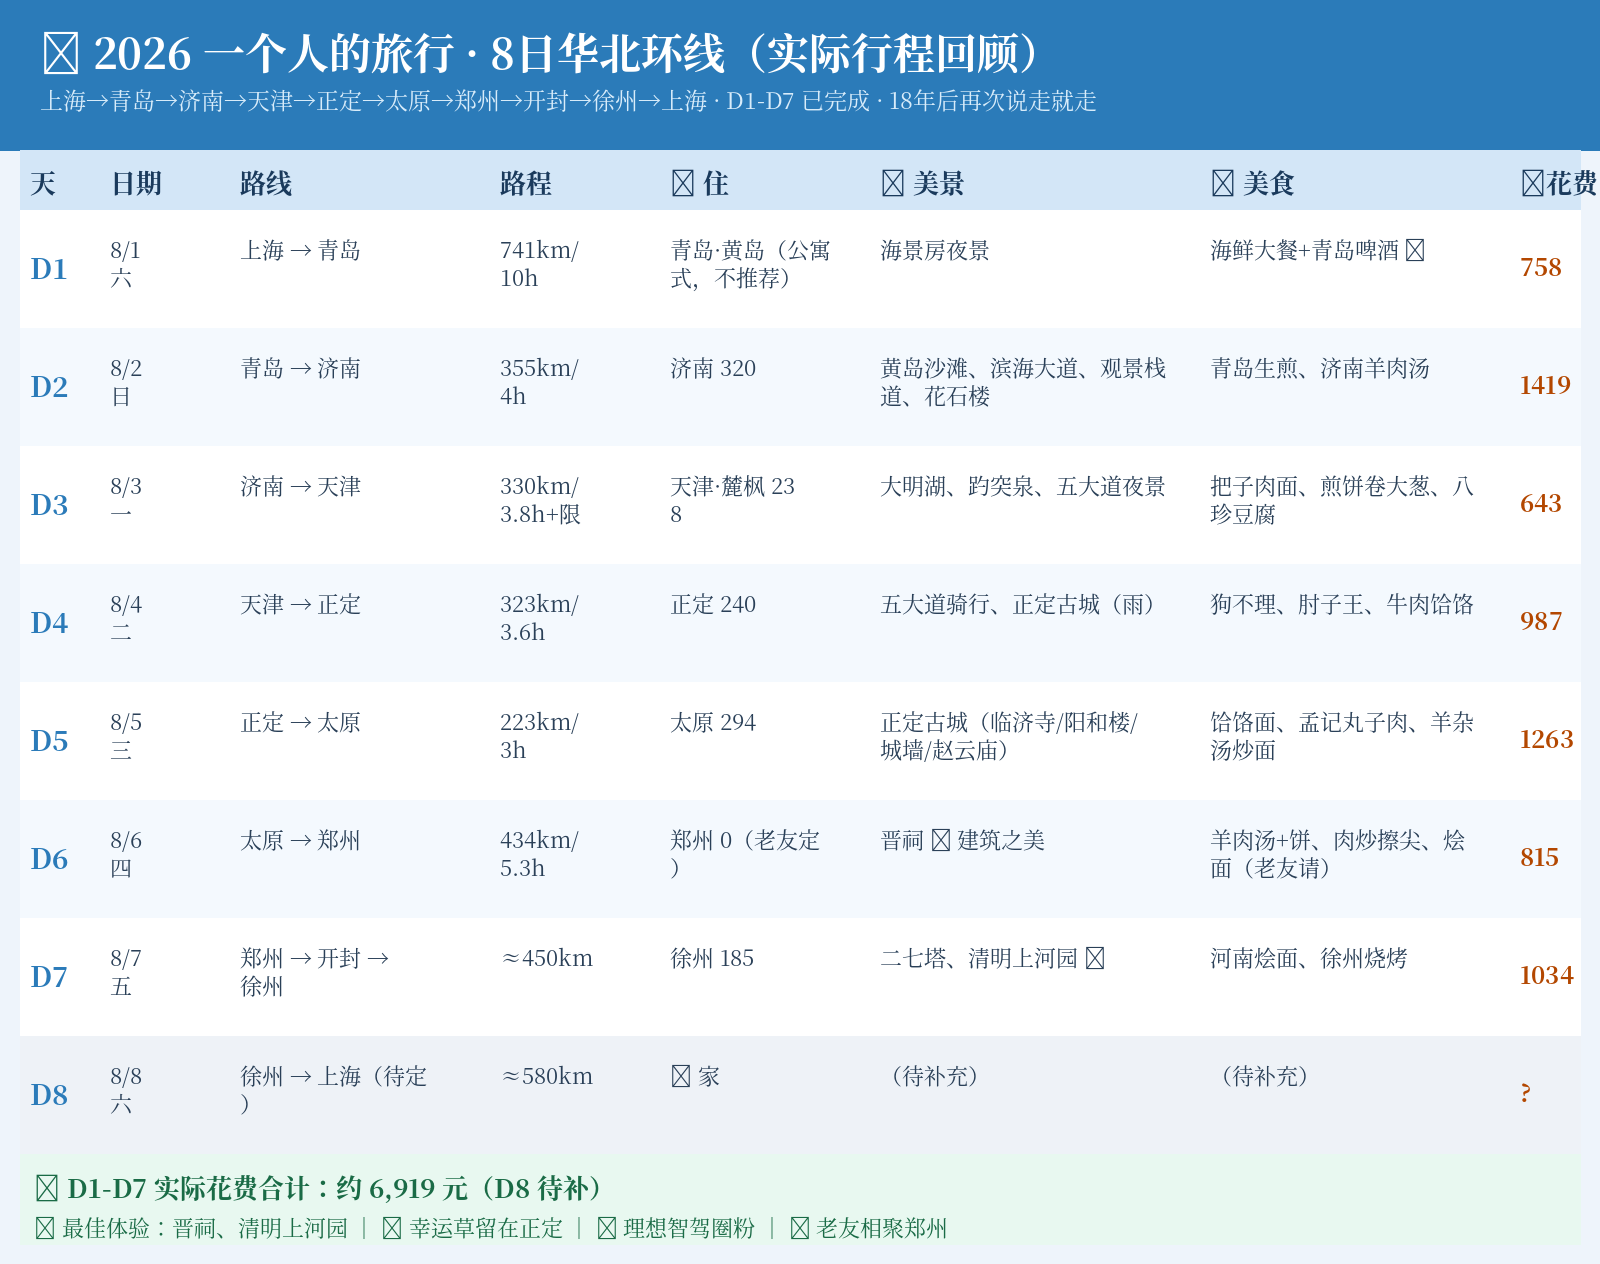
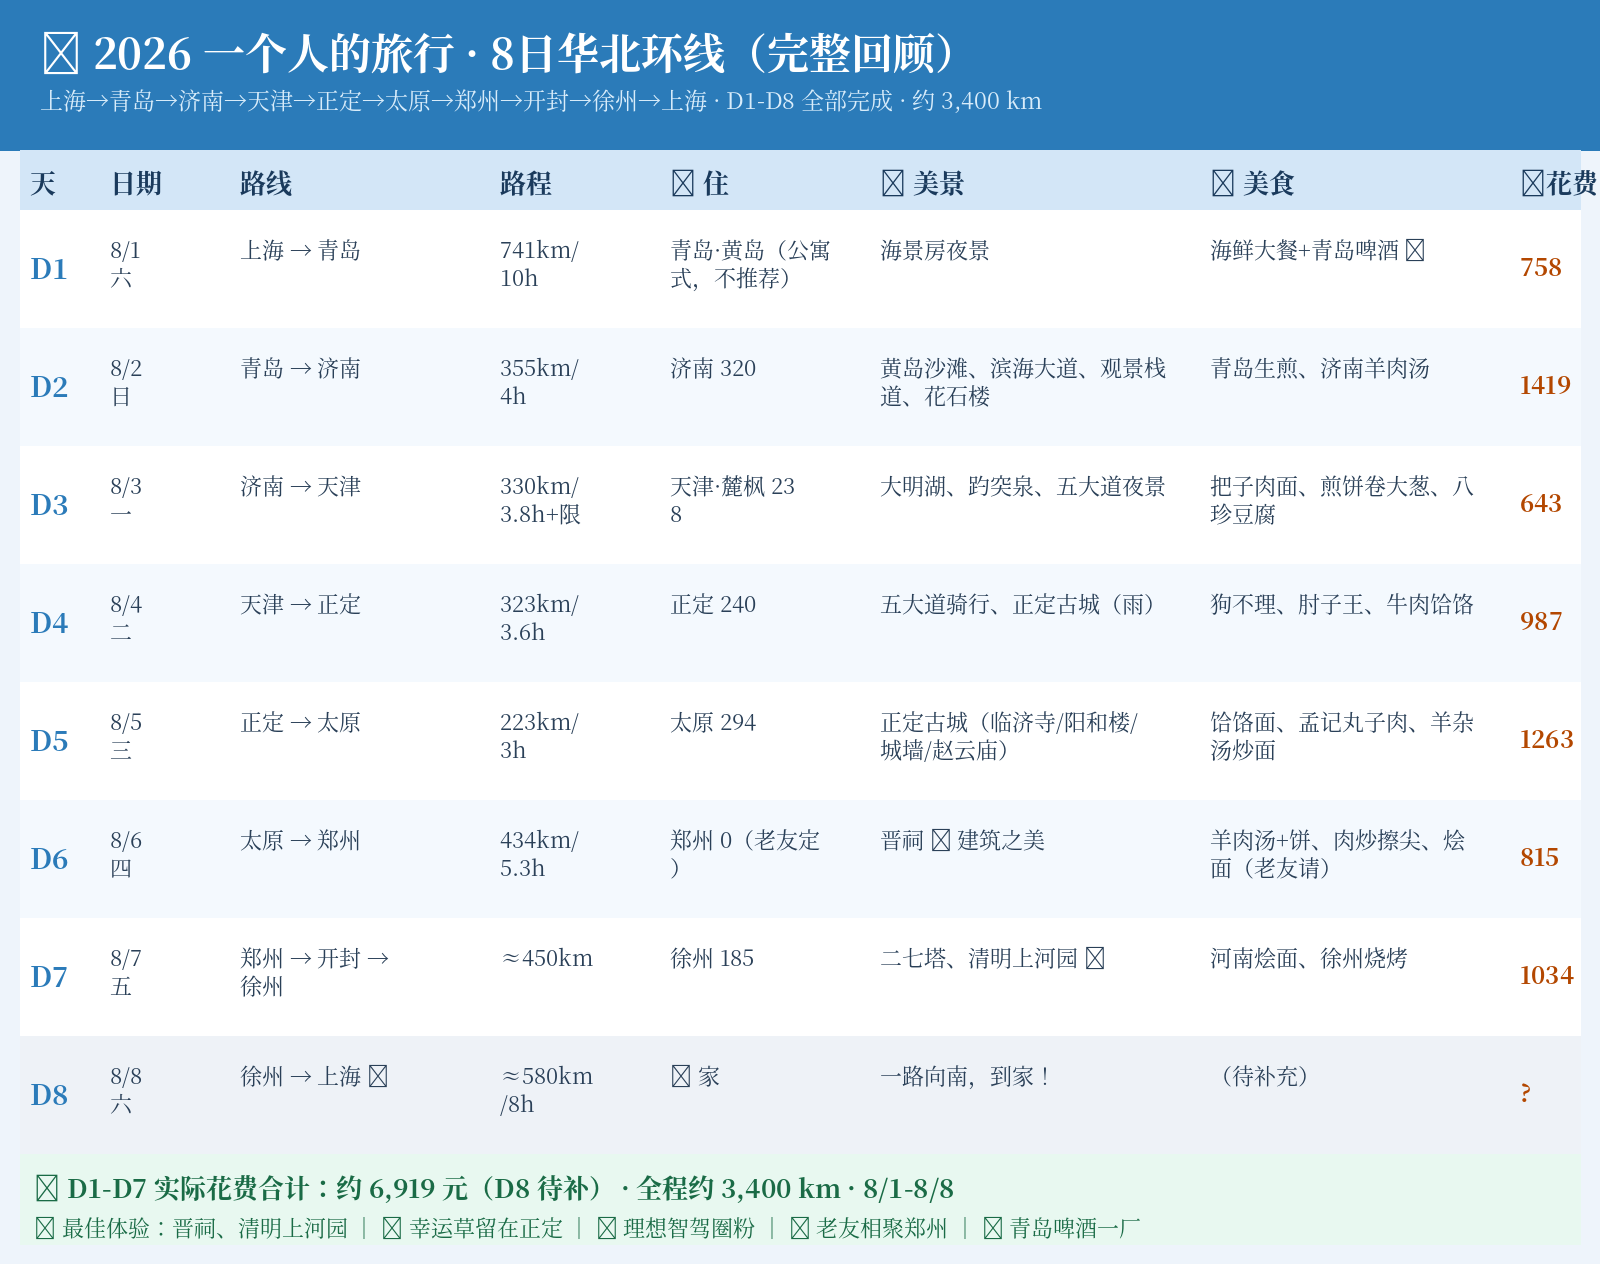
最终版：D8直达上海，完整路线图+总览+D8日记

diff --git a/旅行日记-D8-8月8日-徐州上海.md b/旅行日记-D8-8月8日-徐州上海.md
@@ -1,0 +1,58 @@
+# 📔 D8 · 8月8日（周六）· 徐州 → 上海
+
+> 今天：一路开回上海，八天环线收官！
+
+## 🌅 今日行程
+- **路线：** 徐州 → 上海（直达）
+- **天气：** （待补充）
+- **节奏：** 早上 10:00 出发 → 晚上 18:00 到家（约 8 小时）
+
+## 🍜 美食
+| 餐次 | 吃了什么 | 在哪 | 评分 | 一句话点评 |
+|:-----|:---------|:-----|:----:|:-----------|
+| 早餐 | （待补充） | 徐州 | | |
+
+## 🏛 美景
+| 景点 | 亮点 | 打卡点 | 评分 |
+|:-----|:-----|:-------|:----:|
+| （待补充） | | | |
+
+## ✨ 体验
+- **驾驶感受：** 徐州 → 上海直达，10:00-18:00
+- **新鲜事：** （待补充）
+- **小插曲：** （待补充）
+- **今日心情：** 🏠 八天环线，到家了！
+
+## 🎁 收获
+- **买了什么：** （待补充）
+- **学会了什么：** 八天自驾环游华北圆满收官——18 年后的又一次说走就走 ✅
+- **明天期待：** 在家好好休息，整理照片和日记
+
+## 💰 今日花费
+| 项目 | 金额 |
+|:-----|:----:|
+| 油费 | 元 |
+| 过路费 | 元 |
+| 餐饮 | 元 |
+| 其他 | 元 |
+| **合计** | **元（待补充）** |
+
+---
+
+# 📖 补充模块
+
+## 📝 随感
+- **8 月 1 日出发，8 月 8 日到家——8 天，约 3,400 公里，一个人的旅行圆满收官** 🎉
+- 18 年前一人一车一壶横跨贵州；18 年后一人一车一包环游华北——骨子里的野性没变
+
+## 🧭 全程回顾
+| 天 | 路线 | 状态 |
+|:--:|:-----|:----:|
+| D1 | 上海 → 青岛 | ✅ |
+| D2 | 青岛 → 济南 | ✅ |
+| D3 | 济南 → 天津 | ✅ |
+| D4 | 天津 → 正定 | ✅ |
+| D5 | 正定 → 太原 | ✅ |
+| D6 | 太原 → 郑州 | ✅ |
+| D7 | 郑州 → 开封 → 徐州 | ✅ |
+| D8 | 徐州 → 上海 | ✅ |
